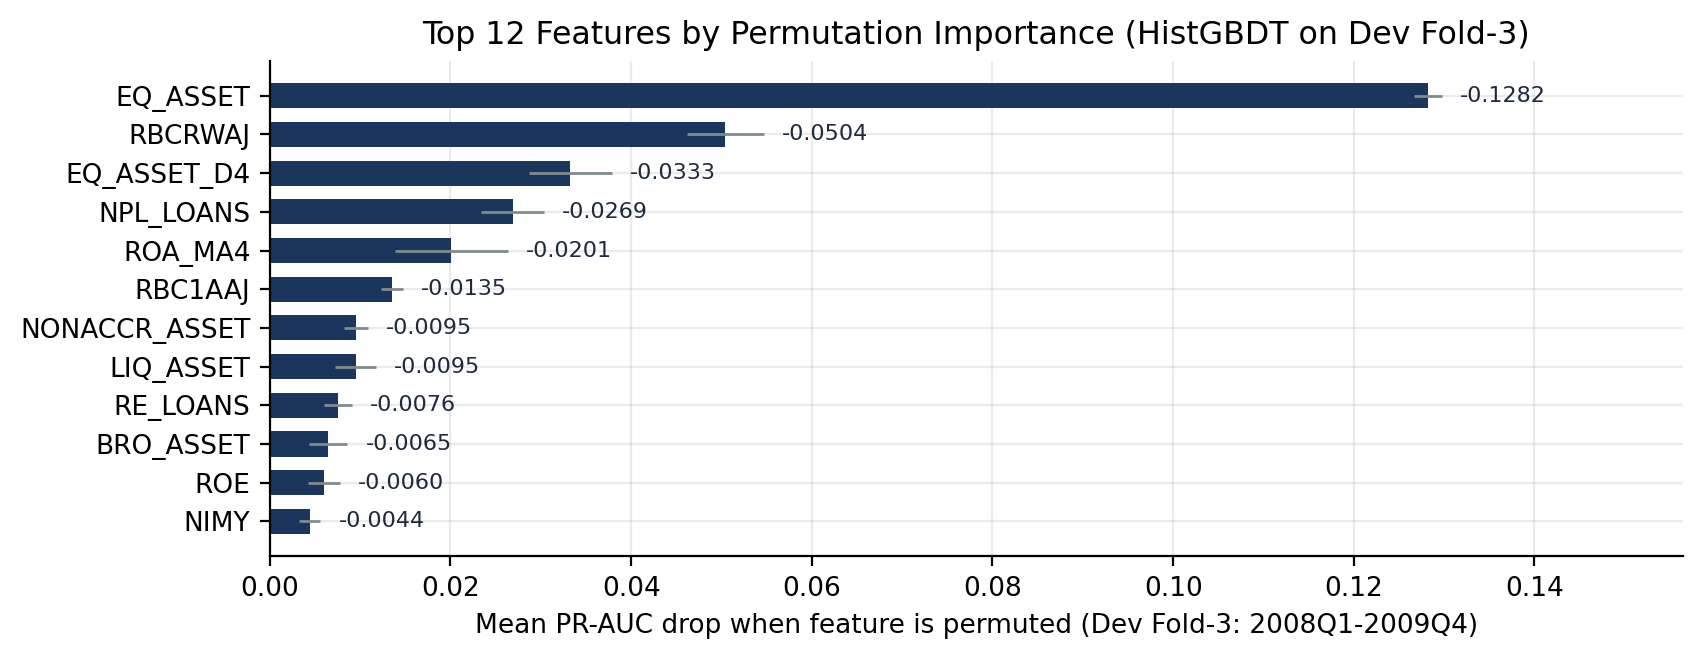
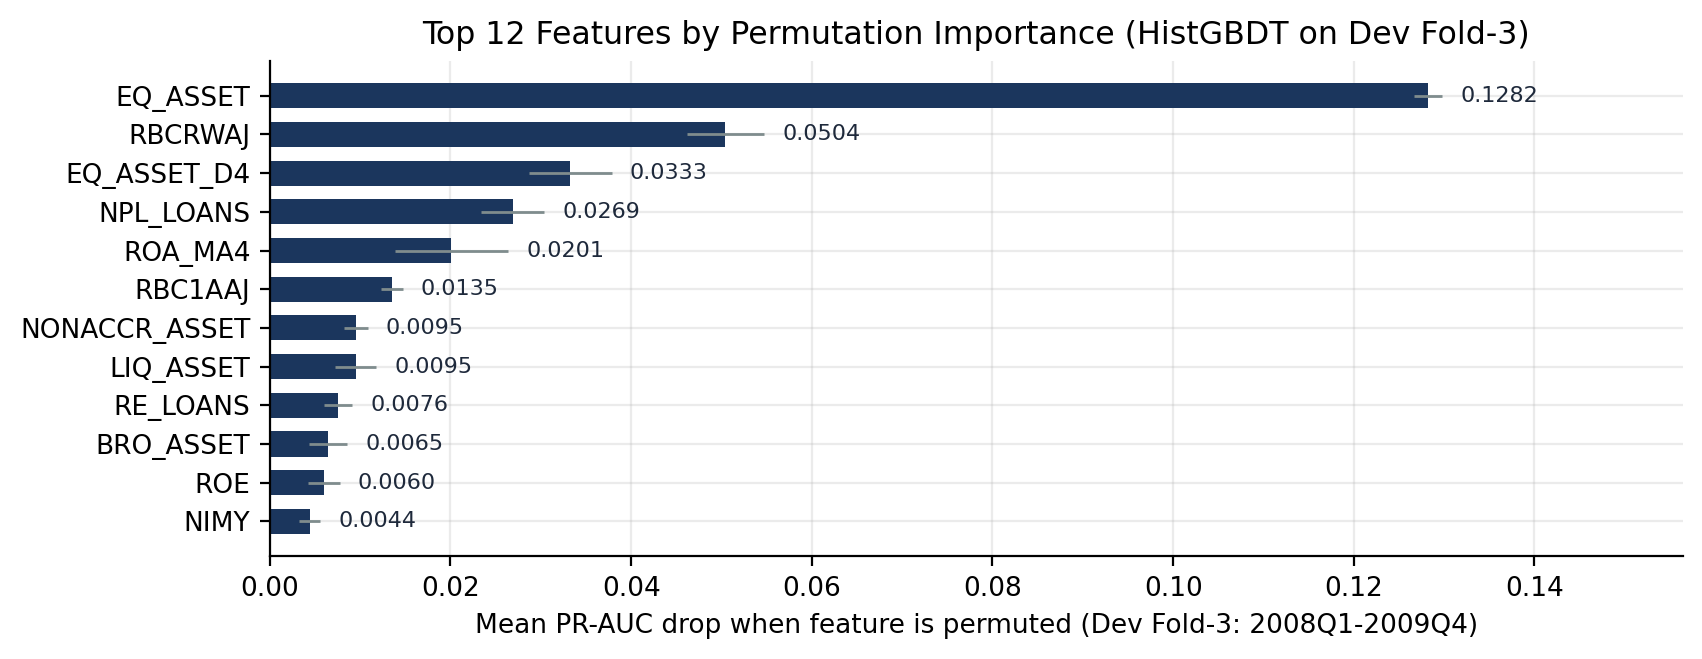
Align figure filenames (fig1-8, figA1-A2) and update README $\rightarrow$ bấm Commit to main

diff --git a/src/10_make_figures.py b/src/10_make_figures.py
@@ -5,7 +5,8 @@ re-evaluation). Run from the repository root:
 
     python src/10_make_figures.py
 
-Figures are written to outputs/figures/fig1_*.png ... fig9_*.png.
+Figures are written to outputs/figures/ (fig1_* ... fig8_*, plus figA1_* and figA2_* for the appendix).
+Stale PNG files in outputs/figures/ from earlier versions are automatically removed before rebuilding.
 """
 import os
 import re
@@ -21,6 +22,8 @@ import pandas as pd
 OUT = Path(os.environ.get("BFT65B_OUT", "outputs"))
 FIG = OUT / "figures"
 FIG.mkdir(parents=True, exist_ok=True)
+for stale_png in FIG.glob("*.png"):
+    stale_png.unlink()
 
 # Colour-blind-safe Okabe-Ito palette
 C_NAVY = "#1B365D"
@@ -77,18 +80,18 @@ def save(fig, name):
     print(f"[ok]   outputs/figures/{name}")
 
 
-# ---------------------------------------------------------------- Fig 0: Architecture diagram
-fig, ax = plt.subplots(figsize=(10.6, 2.2))
+# ---------------------------------------------------------------- Fig 1: Architecture diagram
+fig, ax = plt.subplots(figsize=(11.2, 2.5))
 ax.axis("off")
 steps = [
-    ("1. Acquisition", "FDIC API (1984Q1-2026Q2)\nResumable + Manifest"),
-    ("2. Storage", "Parquet + Zstd\nSchema Harmonisation"),
-    ("3. Quality Audit", "Schema, Nulls, Anomalies\nYTD De-cumulation (*_Q)"),
-    ("4. Clean Panel", "Point-in-Time y(q, q+4]\nIsolate COST & >=FAILDATE"),
-    ("5. Scalable Engine", "Polars Lazy vs. Pandas\nPySpark Catalyst Plan"),
-    ("6. EWS Modelling", "29 CAMELS + 10 Flags\nDev CV -> Single Test Run"),
+    ("1. Acquisition", "FDIC API\n1984Q1-2026Q2\nResumable + manifest"),
+    ("2. Storage", "Parquet + Zstd\nSchema\nharmonisation"),
+    ("3. Quality Audit", "Schema, nulls,\nanomalies\nYTD de-cumulation"),
+    ("4. Clean Panel", "Point-in-time\ny(q, q+4]\nCOST isolated"),
+    ("5. Scalable Engine", "Polars lazy vs pandas\nPySpark\nCatalyst plan"),
+    ("6. EWS Modelling", "29 CAMELS + 10 flags\nDev CV ->\nsingle Test run"),
 ]
-w, h, gap = 0.132, 0.66, 0.036
+w, h, gap = 0.135, 0.66, 0.033
 for idx, (title, body) in enumerate(steps):
     x = 0.01 + idx * (w + gap)
     hdr = mpatches.FancyBboxPatch((x, 0.52), w, 0.30, boxstyle="round,pad=0.008", fc=C_NAVY, ec=C_NAVY)
@@ -96,16 +99,16 @@ for idx, (title, body) in enumerate(steps):
     ax.add_patch(box)
     ax.add_patch(hdr)
     ax.text(x + w / 2, 0.67, title, ha="center", va="center", color="white", fontweight="bold", fontsize=8.8)
-    ax.text(x + w / 2, 0.32, body, ha="center", va="center", color="#1E293B", fontsize=7.6)
+    ax.text(x + w / 2, 0.32, body, ha="center", va="center", color="#1E293B", fontsize=7.4, linespacing=1.25)
     if idx < len(steps) - 1:
-        ax.annotate("", xy=(x + w + gap - 0.002, 0.47), xytext=(x + w + 0.002, 0.47),
+        ax.annotate("", xy=(x + w + gap - 0.006, 0.33), xytext=(x + w + 0.006, 0.33),
                     arrowprops=dict(arrowstyle="->", color=C_NAVY, lw=1.5))
 ax.set_xlim(0, 1)
 ax.set_ylim(0, 0.95)
 ax.set_title("End-to-End FDIC Bank Failure Early-Warning Pipeline Architecture", fontweight="bold", fontsize=10.5, pad=4)
-save(fig, "fig0_pipeline_architecture.png")
+save(fig, "fig1_pipeline_architecture.png")
 
-# ---------------------------------------------------------------- Fig 1: Part 1 storage
+# ---------------------------------------------------------------- Fig 2: Part 1 storage
 df = read_csv("part1_storage_benchmark.csv")
 if df is not None:
     fig, ax = plt.subplots(1, 2, figsize=(10.8, 3.3))
@@ -123,10 +126,10 @@ if df is not None:
     ax[1].invert_yaxis()
     ax[1].set_xlabel("Read time (s)")
     ax[1].set_title("(b) Read performance")
-    ax[1].legend(loc="lower right", frameon=True, facecolor="white", framealpha=0.92, edgecolor="none")
-    save(fig, "fig1_storage_benchmark.png")
+    ax[1].legend(loc="upper center", bbox_to_anchor=(0.5, -0.20), ncol=2, frameon=False)
+    save(fig, "fig2_storage_benchmark.png")
 
-# ---------------------------------------------------------------- Fig 2: Part 2 banks per quarter + split
+# ---------------------------------------------------------------- Fig 3: Part 2 banks per quarter + split
 df = read_csv("part2_banks_per_quarter.csv")
 if df is not None:
     d = pd.to_datetime(df["REPDTE"].astype(str), format="%Y%m%d", errors="coerce")
@@ -147,9 +150,9 @@ if df is not None:
     ax.set_xlabel("Report quarter (REPDTE)")
     ax.set_title("Unbalanced Call Report Panel Size (1984Q1-2026Q2) and Temporal Split (Option B)")
     ax.legend(loc="upper right", fontsize=8, frameon=True, facecolor="white", framealpha=0.9)
-    save(fig, "fig2_banks_per_quarter.png")
+    save(fig, "fig3_banks_per_quarter.png")
 
-# ---------------------------------------------------------------- Fig 3: Part 3 Polars vs Pandas
+# ---------------------------------------------------------------- Fig A1: Part 3 Polars vs Pandas
 df = read_csv("part3_polars_vs_pandas.csv")
 if df is not None:
     fig, ax = plt.subplots(1, 2, figsize=(8.8, 3.1))
@@ -161,7 +164,7 @@ if df is not None:
     ax[1].set_title("(b) Peak memory")
     for a in ax:
         a.tick_params(axis="x", rotation=12)
-    save(fig, "fig3_polars_vs_pandas.png")
+    save(fig, "figA1_polars_vs_pandas.png")
 
 # ---------------------------------------------------------------- Fig 4: Part 3 Scaling
 df = read_csv("part3_scaling.csv")
@@ -202,7 +205,7 @@ if pre_corr and post_corr:
     ax.legend(loc="upper center", bbox_to_anchor=(0.5, 1.13), ncol=2, fontsize=8.2, frameon=True, facecolor="white", edgecolor="#CBD5E1")
     save(fig, "fig5_winsorization_corr.png")
 
-# ---------------------------------------------------------------- Fig 6: Part 5 CV PR-AUC
+# ---------------------------------------------------------------- Fig A2: Part 5 CV PR-AUC
 df = read_csv("part5_cv_results.csv")
 if df is not None:
     pv = df.pivot(index="fold", columns="model", values="PR_AUC")
@@ -215,9 +218,9 @@ if df is not None:
     ax.set_title("Expanding-Window Temporal Cross-Validation on Dev Period (PR-AUC)")
     ax.tick_params(axis="x", rotation=0)
     ax.legend(loc="upper left", frameon=False, title=None)
-    save(fig, "fig6_cv_pr_auc.png")
+    save(fig, "figA2_cv_pr_auc.png")
 
-# ---------------------------------------------------------------- Fig 7: Part 5 Cost threshold curve
+# ---------------------------------------------------------------- Fig 6: Part 5 Cost threshold curve
 df = read_csv("part5_threshold_curve.csv")
 if df is not None:
     i = df["total_cost_USD_M"].idxmin()
@@ -227,7 +230,7 @@ if df is not None:
     ax[0].plot(df["threshold"], df["total_cost_USD_M"], color=C_BLUE, lw=1.8)
     ax[0].axvline(tau, color=C_RED, ls="--", lw=1.2)
     ax[0].annotate(f"Locked tau* = {tau:.3f}\n(${min_cost:.1f}M)", (tau, min_cost),
-                   xytext=(tau + 0.11, min_cost + (df["total_cost_USD_M"].max() - min_cost) * 0.30),
+                   xytext=(tau + 0.12, min_cost + (df["total_cost_USD_M"].max() - min_cost) * 0.62),
                    textcoords="data", color=C_RED, fontweight="bold", fontsize=8.8,
                    arrowprops=dict(arrowstyle="->", color=C_RED, lw=1.0))
     ax[0].set_xlabel("Probability alarm threshold (tau)")
@@ -239,8 +242,8 @@ if df is not None:
     ax[1].set_xlabel("Probability alarm threshold (tau)")
     ax[1].set_ylabel("Percentage (%)")
     ax[1].set_title("(b) Recall vs. Precision trade-off (Dev OOF)")
-    ax[1].legend(loc="center right", frameon=False, fontsize=8.5)
-    save(fig, "fig7_threshold_cost.png")
+    ax[1].legend(loc="upper right", frameon=False, fontsize=8.5)
+    save(fig, "fig6_threshold_cost.png")
 
 # ---------------------------------------------------------------- Fig 8: Part 5 Feature importance
 df = read_csv("part5_feature_importance.csv")
@@ -250,13 +253,13 @@ if df is not None:
     ax.barh(top["feature"], top["pr_auc_drop_mean"], xerr=top["pr_auc_drop_std"], color=C_NAVY, height=0.65,
             error_kw=dict(ecolor=C_GREY, lw=1))
     for idx_bar, (val, std) in enumerate(zip(top["pr_auc_drop_mean"], top["pr_auc_drop_std"])):
-        ax.text(val + std + 0.002, idx_bar, f"-{val:.4f}", va="center", fontsize=8, color="#1E293B")
+        ax.text(val + std + 0.002, idx_bar, f"{val:.4f}", va="center", fontsize=8, color="#1E293B")
     ax.set_xlim(0, top["pr_auc_drop_mean"].max() * 1.22)
     ax.set_xlabel("Mean PR-AUC drop when feature is permuted (Dev Fold-3: 2008Q1-2009Q4)")
     ax.set_title("Top 12 Features by Permutation Importance (HistGBDT on Dev Fold-3)")
     save(fig, "fig8_feature_importance.png")
 
-# ---------------------------------------------------------------- Fig 9: Part 5 Single Test evaluation
+# ---------------------------------------------------------------- Fig 7: Part 5 Single Test evaluation
 df = read_csv("part5_test_evaluation.csv")
 if df is not None:
     df["tau_num"] = pd.to_numeric(df["tau"], errors="coerce")
@@ -275,10 +278,10 @@ if df is not None:
     ax[0].axhline(no_alarm, color=C_RED, ls="--", lw=1.2, label=f"No-alarm (${no_alarm:.1f}M)")
     ax[0].set_xticks(x)
     ax[0].set_xticklabels(d_lock.index)
-    ax[0].set_ylim(0, no_alarm * 1.22)
+    ax[0].set_ylim(0, no_alarm * 1.12)
     ax[0].set_ylabel("Total Test Cost (USD M)")
     ax[0].set_title("(a) Test Cost: Locked tau*=0.05 vs. Default 0.50")
-    ax[0].legend(loc="upper right", fontsize=7.8, frameon=True, facecolor="white", framealpha=0.9)
+    ax[0].legend(loc="upper center", bbox_to_anchor=(0.5, -0.14), ncol=3, fontsize=7.6, frameon=False)
 
     caught_def = pd.to_numeric(d_def["Banks_caught_of_199"].astype(str).str.extract(r"(\d+)")[0], errors="coerce")
     caught_lock = pd.to_numeric(d_lock["Banks_caught_of_199"].astype(str).str.extract(r"(\d+)")[0], errors="coerce")
@@ -290,10 +293,10 @@ if df is not None:
         ax[1].text(idx_x + bw / 2, v + 4, f"{int(v)}/199\n({v/199*100:.1f}%)", ha="center", fontsize=7.8, fontweight="bold")
     ax[1].set_xticks(x)
     ax[1].set_xticklabels(d_lock.index)
-    ax[1].set_ylim(0, 238)
+    ax[1].set_ylim(0, 225)
     ax[1].set_ylabel("Failed banks caught (>=1 alarm in 4 qtrs)")
     ax[1].set_title("(b) Failed Banks Caught on Locked Test (2011Q1-2025Q2)")
-    ax[1].legend(loc="lower right", fontsize=7.8, frameon=True, facecolor="white", framealpha=0.9)
-    save(fig, "fig9_test_evaluation.png")
+    ax[1].legend(loc="upper center", bbox_to_anchor=(0.5, -0.14), ncol=3, fontsize=7.6, frameon=False)
+    save(fig, "fig7_test_evaluation.png")
 
 print("done")

diff --git a/README.md b/README.md
@@ -27,9 +27,9 @@ End-to-end, leak-free, reproducible data engineering and machine learning pipeli
     │   ├── 08_preprocess.py          # Part 4: Leak-free sklearn Pipeline (QuantileWinsorizer -> Imputer -> Scaler)
     │   ├── 09_modelling.py           # Part 5: Expanding-window temporal CV, cost threshold & single Test evaluation
     │   ├── 09b_mllib_colab.ipynb     # Part 5: Distributed Spark MLlib Pipeline demonstration (Colab)
-    │   └── 10_make_figures.py        # Part 6: Rebuilds all report PNG figures from outputs/*.csv
+    │   └── 10_make_figures.py        # Part 6: Rebuilds Figures 1-8 and A1-A2 from outputs/
     ├── outputs/                      # Saved benchmark CSVs, execution plans, quality audits, and model logs
-    │   └── figures/                  # Reproducible PNG figures generated by src/10_make_figures.py
+    │   └── figures/                  # Reproducible PNG figures (fig1..fig8, figA1..figA2)
     ├── data_raw/                     # Raw FDIC API Parquet files & manifests (git-ignored)
     ├── data_processed/               # Clean panel & engineered feature Parquet tables (git-ignored)
     ├── requirements.txt              # Pinned Python package versions (UTF-8)
@@ -48,7 +48,7 @@ End-to-end, leak-free, reproducible data engineering and machine learning pipeli
 ## 3. Environment & Reproducibility Setup
 
 - **Local Hardware Tested:** Intel Core i5-1235U, 8 GB RAM, Windows 10/11
-- **Python & Verified Packages:** Python 3.10.10 (`polars==2.0.0`, `pandas==2.3.3`, `numpy==2.2.6`, `pyarrow==25.0.1`, `scikit-learn==1.7.2`, `psutil==7.2.2`, `requests==2.34.2`)
+- **Python & Verified Packages:** Python 3.10.10 (`polars==2.0.0`, `pandas==2.3.3`, `numpy==2.2.6`, `pyarrow==25.0.1`, `scikit-learn==1.7.2`, `psutil==7.2.2`, `requests==2.34.2`, `matplotlib==3.10.8`)
 - **Distributed Demo Environment:** Google Colab Linux VM (`Apache Spark 4.0.5`, `Polars 1.35.2`)
 - **Determinism:** All stochastic routines use fixed seed `SEED = 42`.
 - **Approximate Runtime (not precisely timed):** Initial FDIC API download ~30 min (`01_download_fdic.py`); local scripts (`00` through `10`) ~15–30 min total on an 8 GB RAM laptop.
@@ -80,14 +80,14 @@ Run all commands sequentially from the repository root (`bft65b-bank-failure-ews
     python src/06c_scaling.py           # Runs 1x, 2x, 3x scaling experiment -> outputs/part3_scaling.csv
 
     # --- PART 4: Leak-Free Feature Pipeline ---
-    python src/07_features.py           # Computes 29 CAMELS ratios (true QIDX+4 lags) + runs 2005Q4 truncation check
+    python src/07_features.py           # Computes 29 CAMELS features + runs 2005Q4 truncation check
     python src/08_preprocess.py         # Verifies DEV-only fitting of Winsorizer/Imputer/Scaler (39 model inputs)
 
     # --- PART 5: Temporal Validation, Cost Thresholding & Single Test Run ---
     python src/09_modelling.py          # 3-fold temporal CV (4-qtr purge gap), locks tau*=0.05, evaluates Test ONCE
 
     # --- PART 6: Reproducible Figures ---
-    python src/10_make_figures.py       # Rebuilds all report figures -> outputs/figures/*.png
+    python src/10_make_figures.py       # Rebuilds Figures 1-8 and A1-A2 -> outputs/figures/*.png
 
 *(Note: `src/03a_inspect.py`, `src/05a_ytd_check.py`, and `src/05b_ntlnls_check.py` are optional diagnostic scripts used during exploratory auditing and are not required for the main pipeline run.)*
 
@@ -104,4 +104,4 @@ Run all commands sequentially from the repository root (`bft65b-bank-failure-ews
 
 ## 6. AI Usage Disclosure
 
-In accordance with course academic integrity guidelines, AI tools (Anthropic Claude and Google Gemini) were used solely for two auxiliary tasks: (1) cross-checking data consistency and verifying anti-leakage validation checks against `outputs/` logs, and (2) generating the figure-plotting script (`src/10_make_figures.py`, which programmatically rebuilds all report charts from `outputs/`). All data acquisition, pipeline implementation, feature engineering, model training and evaluation, analysis, and report writing were conducted and verified by the author.
+In accordance with course academic integrity guidelines, AI tools (Claude and Gemini) were used strictly for auxiliary checking tasks: cross-checking numerical consistency and anti-leakage rules against `outputs/` logs, assisting with the figure-plotting helper (`src/10_make_figures.py`), and grammar proofreading. All pipeline code, data processing, experimental design, analysis, and report writing were independently conducted and verified by the author.
